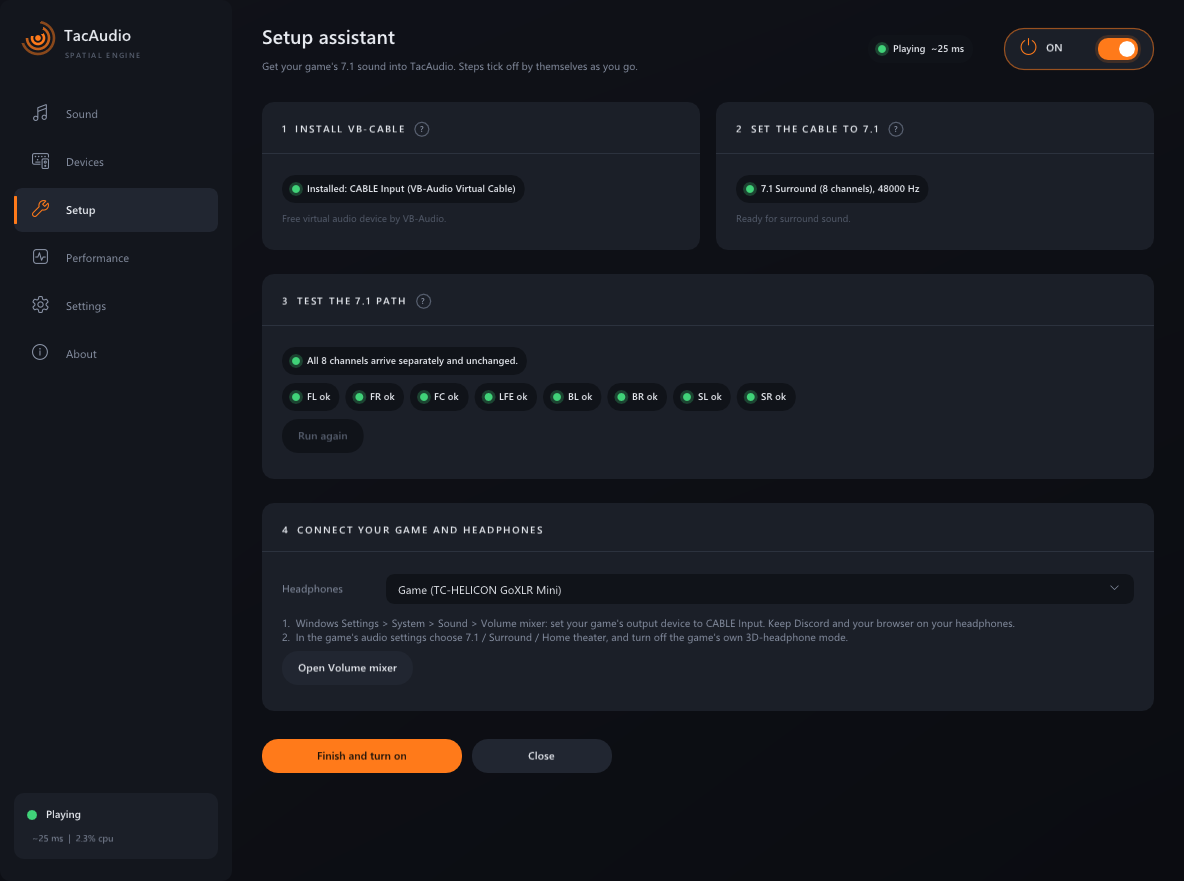
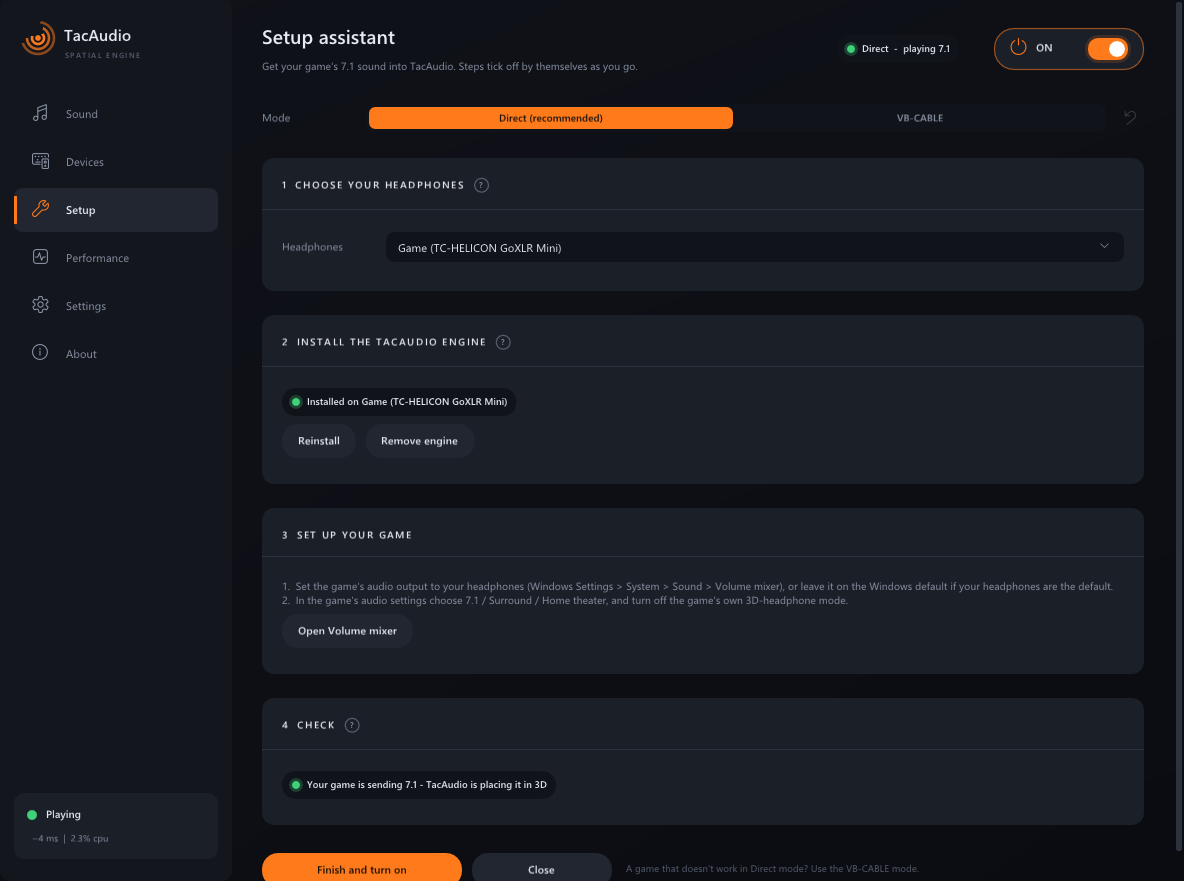
Release 0.6.0: Direct mode is the main setup, VB-CABLE optional
README, installer finish page, release notes and screenshots now
describe Direct mode (TacAudio's engine inside Windows audio, no
virtual cable, ~4 ms) as the standard setup; VB-CABLE mode stays as
an optional fallback in the Setup assistant.

diff --git a/README.md b/README.md
@@ -6,13 +6,13 @@
 
 <p align="center">
   <b>Spatial 3D audio for competitive gaming on Windows.</b><br>
-  Precise direction, clean footsteps, tamed gunfire &mdash; on any headphones.
+  Precise direction, clean footsteps, tamed gunfire &mdash; on any headphones, no virtual cable.
 </p>
 
 <p align="center">
   <img src="https://img.shields.io/badge/platform-Windows%2010%20%7C%2011-0b84d8" alt="Windows 10 | 11">
   <img src="https://img.shields.io/badge/C%2B%2B-20-00599c" alt="C++20">
-  <img src="https://img.shields.io/badge/version-0.5.0-ff7a1a" alt="version 0.5.0">
+  <img src="https://img.shields.io/badge/version-0.6.0-ff7a1a" alt="version 0.6.0">
   <img src="https://img.shields.io/badge/tests-336%20checks-2fe3c4" alt="336 test checks">
 </p>
 
@@ -36,66 +36,77 @@ commercial headphone virtualisers do &mdash; and then goes further for competiti
 - **No hidden bass boost**: the subwoofer channel is passed at the level the game mixed it, with an
   optional bass slider.
 
-Everything is adjustable live while you play, from a modern dark app with a tray icon and hotkeys.
+TacAudio's engine runs **inside Windows' own audio processing** on your headphones (*Direct mode*):
+the game simply plays to your headphones in 7.1, there is no virtual cable, and it adds about
+**4 ms** of delay. Everything is adjustable live while you play, from a modern dark app with a tray
+icon and hotkeys.
 
 ## Features
 
 | | |
 |---|---|
+| 🎯 **Direct mode** | Engine built into Windows audio on your headphones: no virtual cable, ~4 ms delay, keeps working with the app closed |
 | 🎧 **Measured heads** | SADIE II KEMAR and Neumann KU100 dummy heads included (+18 human heads optional), diffuse-field equalised so they sound neutral |
 | 🏠 **Room presets** | Neutral (dry, most precise), Balanced (small room), Spacious |
 | 🔫 **Combat dynamics** | Light / Medium / Strong, per channel and before 3D (a gun on one side never ducks footsteps behind you) |
 | 👣 **Footstep clarity** | Quiet-only 3.5 kHz clarity boost, 0 - 12 dB |
-| ⚡ **Low latency** | ~25 ms added in exclusive mode; glitch-free adaptive buffering with clock-drift compensation |
 | 🔁 **A/B switch** | 3D on/off instantly (Ctrl + Alt + F9) to compare against plain stereo |
-| 🧭 **Setup assistant** | Detects VB-CABLE and its 7.1 setting, opens the right Windows dialogs, tests all 8 channels, picks your headphones |
-| 🖥 **Everyday app** | Tray icon, start with Windows, global hotkeys, automatic reconnect when a device resets, per-option reset buttons |
-| 📊 **Performance page** | Live latency, buffer, CPU, glitch counters and history |
+| 🧭 **Setup assistant** | Installs the engine on your headphones and shows live whether your game is sending 7.1 |
+| 📊 **Performance page** | Live level of each of the game's 8 speakers, how much loud sound is tamed and quiet sound lifted |
+| 🖥 **Everyday app** | Tray icon, start with Windows, global hotkeys, per-option reset buttons |
+| 🔌 **VB-CABLE mode** | Optional fallback for setups where Direct mode can't be used |
 
 ## Download and install
 
-1. Download **`TacAudio-Setup-0.5.0.exe`** from the [Releases](https://github.com/sa3oodi/TacAudio-engine/releases) page.
-2. Run it. It installs for your user only (no administrator rights) into
-   `%LOCALAPPDATA%\Programs\TacAudio`, with a Start menu entry and an uninstaller in
-   *Settings &rarr; Apps*.
+1. Download **`TacAudio-Setup-0.6.0.exe`** from the [Releases](https://github.com/sa3oodi/TacAudio-engine/releases) page.
+2. Run it. It installs for your user only into `%LOCALAPPDATA%\Programs\TacAudio`, with a Start
+   menu entry and an uninstaller in *Settings &rarr; Apps*.
 
 > The installer is not code-signed yet, so Windows SmartScreen may warn you.
 > Click **More info &rarr; Run anyway**.
 
-### One-time game setup
+### One-time setup (about 1 minute)
 
-Games have to output 7.1 into a device TacAudio can read. Until TacAudio ships its own virtual
-audio driver, this is the free **VB-CABLE**.
+TacAudio's **Setup assistant** opens on first launch (and any time from the *Setup* page):
 
-**TacAudio's Setup assistant does the checking for you.** It opens on first launch (and any time
-from the *Setup* page): it detects whether VB-CABLE is installed and set to 7.1, opens the right
-Windows dialogs, runs an inaudible 8-channel test and picks your headphones. Each step ticks off by
-itself as you complete it.
+1. **Choose your headphones.**
+2. **Install engine** &mdash; Windows asks for administrator permission once; sound pauses for a few
+   seconds while Windows audio restarts.
+3. **Set up your game**: audio output = your headphones (or the Windows default), and in the game's
+   audio settings choose **7.1 / Surround / Home theater**. Turn off the game's own 3D-headphone mode.
+4. **Check**: start the game &mdash; the assistant shows *"Your game is sending 7.1"* when the back
+   and side channels arrive.
 
 <p align="center">
   <img src="docs/images/screenshot-setup.png" width="720" alt="Setup assistant">
 </p>
 
-The same steps by hand:
+Tested with Call of Duty: Modern Warfare 4 on a GoXLR Mini: full 7.1 arrives, no anti-cheat issues.
 
-1. Install [VB-CABLE](https://vb-audio.com/Cable/) (run `VBCABLE_Setup_x64.exe` as administrator, then restart).
-2. `Win + R` &rarr; `mmsys.cpl` &rarr; *Playback* &rarr; **CABLE Input** &rarr; *Configure* &rarr; **7.1 Surround**;
-   *Properties &rarr; Advanced* &rarr; a **48000 Hz** format.
-3. *Settings &rarr; System &rarr; Sound &rarr; Volume mixer* &rarr; your game &rarr; output **CABLE Input**.
-4. In the game: audio output **7.1 / Surround / Home theater**, and turn off the game's own 3D-headphone mode.
-5. In TacAudio's **Devices** page pick *CABLE Input* as source and your headphones as output, then
-   switch TacAudio **ON** (top right).
+**Good to know**
+- The engine processes everything played on that headphone device (Discord, browser...). Stereo
+  apps stay stereo and pass through the same sound settings.
+- Windows' *Audio enhancements* must be enabled for the device (the default).
+- Apps that use exclusive or "raw" audio mode bypass Windows' audio effects, and therefore TacAudio.
+- *Remove engine* in the Setup assistant (or uninstalling TacAudio) restores the device's original
+  Windows effects exactly.
 
-`tacaudio-cli cable-test` runs the same 8-channel test from the command line.
+### Optional: VB-CABLE mode
+
+If Direct mode can't be used, the Setup assistant's **VB-CABLE** tab walks you through the older
+path: the free [VB-CABLE](https://vb-audio.com/Cable/) virtual device set to 7.1, the game playing
+into *CABLE Input*, and TacAudio capturing it and playing to your headphones (~25 ms delay).
+It detects the cable and its 7.1 setting, opens the right Windows dialogs and runs an inaudible
+8-channel test (`tacaudio-cli cable-test` does the same from the command line).
 
 ## Using TacAudio
 
 | Page | What it's for |
 |---|---|
 | **Sound** | Head, room, combat dynamics + punch, footstep clarity, volume and bass, live meters. Every option has a &#x21BA; reset button; *Reset all* restores the defaults |
-| **Devices** | Game audio source, headphone output, exclusive mode (lowest latency) |
-| **Setup** | Setup assistant: VB-CABLE, 7.1, channel test, headphones, game routing |
-| **Performance** | Latency, buffer, CPU, glitches, how much loud sound is tamed / quiet sound lifted |
+| **Devices** | Where the engine is installed (Direct mode), or source / output devices (VB-CABLE mode) |
+| **Setup** | Setup assistant: Direct mode (recommended) or VB-CABLE |
+| **Performance** | The game's 8 speaker levels, streams, how much loud sound is tamed / quiet sound lifted |
 | **Settings** | Start with Windows, turn on at launch, close to tray, hotkeys |
 
 | Hotkey | Action |
@@ -103,11 +114,12 @@ The same steps by hand:
 | `Ctrl + Alt + F10` | TacAudio on / off |
 | `Ctrl + Alt + F9` | 3D sound on / off (A/B) |
 
-Closing the window keeps TacAudio running in the tray; right-click the tray icon to exit.
+Closing the window keeps TacAudio running in the tray; right-click the tray icon to exit. In Direct
+mode the engine keeps your last settings even when the app is closed.
 
 <p align="center">
-  <img src="docs/images/screenshot-devices.png" width="420" alt="Devices page">
   <img src="docs/images/screenshot-performance.png" width="420" alt="Performance page">
+  <img src="docs/images/screenshot-devices.png" width="420" alt="Devices page">
 </p>
 <p align="center">
   <img src="docs/images/screenshot-settings.png" width="420" alt="Settings page">
@@ -118,43 +130,54 @@ Closing the window keeps TacAudio running in the tray; right-click the tray icon
 
 ```mermaid
 flowchart LR
-    G[Game<br>7.1 output] --> C[VB-CABLE<br>CABLE Input]
-    C -->|WASAPI loopback| R[Lock-free ring<br>+ drift compensation]
-    subgraph TacAudio engine
-      R --> D[Combat dynamics<br>+ footstep clarity<br>per channel]
-      D --> H[HRTF convolution<br>7 virtual speakers]
+    G[Game<br>7.1 output] --> W[Windows audio engine<br>audiodg.exe]
+    subgraph W2 [TacAudio APO inside Windows audio]
+      D[Combat dynamics<br>+ footstep clarity<br>per channel] --> H[HRTF convolution<br>7 virtual speakers]
       D --> M[Room<br>early reflections + FDN]
       H --> S((+))
       M --> S
       S --> V[Volume, 3D A/B]
       V --> L[Peak limiter]
     end
-    L -->|WASAPI exclusive| O[Headphones]
+    W -->|7.1, 8 channels| D
+    L -->|stereo| O[Headphones]
+    A[TacAudio app] -.->|settings| W2
+    W2 -.->|levels, status| A
 ```
 
-1. **Capture**: the game's 8 channels are read from the virtual cable (WASAPI loopback) into a
-   lock-free ring buffer. A slowly adapting resampler absorbs the clock difference between the
-   cable and your headphones; the buffer grows a little after a glitch and shrinks back when stable.
-2. **Dynamics**: each channel is compressed above a threshold and lifted below another, using a
+**Direct mode.** Windows lets audio-effect add-ons (*Audio Processing Objects*, the same mechanism
+behind "Audio enhancements" and laptop virtual-surround features) process a playback device.
+TacAudio installs one on your headphones. It asks Windows for a **7.1 input while the device stays
+stereo**, so a game set to 7.1 delivers all 8 channels to TacAudio, which renders them to 3D stereo
+right before the headphones. The app writes the settings to `%ProgramData%\TacAudio\apo.ini` (applied
+within 0.1 s) and reads the engine's live status back.
+
+The engine:
+
+1. **Dynamics**: each channel is compressed above a threshold and lifted below another, using a
    blend of peak and ~30 ms loudness detection (punch). Footstep clarity adds a 3.5 kHz band only
    while the channel is quiet.
-3. **Spatialisation**: every channel is a virtual speaker at its 7.1 position, convolved with the
+2. **Spatialisation**: every channel is a virtual speaker at its 7.1 position, convolved with the
    chosen head's HRTF pair (uniformly partitioned FFT convolution). The direction-averaged response
    of each head is equalised flat, so the head's own ear resonance does not colour the sound.
-4. **Room**: a stereo send feeds early reflections and a 4-line feedback delay network with a
+3. **Room**: a stereo send feeds early reflections and a 4-line feedback delay network with a
    Hadamard matrix; bass and top end are kept out of it so footsteps stay clean.
-5. **Output**: volume, a look-ahead peak limiter and exclusive-mode output at the device's minimum
-   period (3 ms on a GoXLR).
+4. **Output**: volume, 3D on/off and a look-ahead peak limiter.
 
 Live changes (head, room, dynamics...) swap the whole renderer without clicks: the new one runs
-silently for ~20 ms to fill its filters, then crossfades in over ~10 ms.
+silently for ~20 ms to fill its filters, then crossfades in over ~10 ms. The audio thread never
+allocates, locks or waits; renderers are built on a worker thread.
+
+**VB-CABLE mode** uses the same engine in the app: WASAPI loopback capture of the cable into a
+lock-free ring buffer with drift compensation and an adaptive buffer, then exclusive-mode output.
 
 ### Measured
 
 | | Result |
 |---|---|
-| Added latency, exclusive output | **~25 - 31 ms** (about 20 ms of it is the VB-CABLE step) |
-| Added latency, shared output | ~55 ms |
+| Added delay, Direct mode | **~4 ms** (one 2.7 ms processing block + 1 ms limiter look-ahead) |
+| Added latency, VB-CABLE mode | ~25 - 31 ms exclusive output, ~55 ms shared |
+| 7.1 through Direct mode | 8 channels arrive discrete (test levels -30 ... -51 dBFS intact) |
 | CPU | ~2 % of one core |
 | Gunfire vs. footsteps (battle test scene) | 31 dB &rarr; 21 dB (medium) &rarr; 16 dB (strong) |
 | Gunshot crack kept with punch 60 | 32 dB vs. 34 dB without dynamics (24 dB at punch 0) |
@@ -162,13 +185,15 @@ silently for ~20 ms to fill its filters, then crossfades in over ~10 ms.
 
 ## Build from source
 
-Requirements: Windows 10/11, Visual Studio 2022 or 2026 with the C++ workload, CMake 3.25+,
-Python 3 (only to download head data). The configure step downloads zlib, libmysofa and Dear ImGui.
+Requirements: Windows 10/11, Visual Studio 2022 or 2026 with the C++ workload and Windows SDK,
+CMake 3.25+, Python 3 (only to download head data). The configure step downloads zlib, libmysofa
+and Dear ImGui.
 
 ```powershell
-cmake -S . -B build -G "Visual Studio 17 2022" -A x64     # or "Visual Studio 18 2026"
+cmake -S . -B build -A x64
 cmake --build build --config Release
 build\Release\tac_tests.exe                               # unit tests
+build\Release\tacapo-setup.exe selftest                   # drives the APO in-process
 python tools\fetch_sadie.py                               # SADIE II KU100 + KEMAR (--all: + 18 human heads)
 build\Release\TacAudio.exe
 ```
@@ -181,32 +206,33 @@ powershell -ExecutionPolicy Bypass -File scripts\build_installer.ps1
 ```
 
 The GitHub Actions workflow (`.github/workflows/build.yml`) builds, tests and packages the
-installer on every push.
+installer on every push, and publishes a GitHub Release for every `v*` tag.
 
 ### Command-line tools
 
 ```powershell
+tacapo-setup status                       # where the engine is installed, live levels, log
+tacapo-setup install --device "Headphones"   # (administrator) install the engine on a device
+tacapo-setup uninstall                    # (administrator) remove it, restore the original effects
+tacapo-setup play71 --device "Headphones"    # quiet 8-channel test tone (levels show in status)
 tacrender demo renders                    # synthetic 7.1 test scenes -> binaural WAVs
 tacrender render in_71.wav out.wav        # any 5.1 / 7.1 / 7.1.4 WAV -> binaural
 tacrender heads                           # list head sets;  tacrender audition <dir>: one render per head
 tacaudio-cli devices                      # audio devices with periods
-tacaudio-cli run --loopback "CABLE Input" --out "Game" --exclusive
-tacaudio-cli run ... --latency-test --gain-db -40   # measure added latency stage by stage
+tacaudio-cli run --loopback "CABLE Input" --out "Game" --exclusive    # VB-CABLE mode engine
 tacaudio-cli cable-test                   # verify a virtual cable carries 7.1
 ```
-
-Shared options: `--head`, `--room`, `--dynamics`, `--punch`, `--footsteps`, `--lfe-db`,
-`--gain-db`, `--raw-hrtf`, `--spherical`, `--block`.
 
 ## Project layout
 
 ```
 src/core/          DSP, no dependencies: FFT, partitioned convolver, HRTF sets + diffuse-field EQ,
                    VBAP, binaural renderer, room, dynamics, limiter, ring buffer, varispeed, WAV
-src/engine/        real-time engine (drift compensation, adaptive buffer, live renderer swap)
+src/engine/        real-time engine for VB-CABLE mode (drift compensation, adaptive buffer)
 src/platform/      WASAPI capture / loopback / render (shared, low-latency, exclusive)
 src/sofa/          SOFA HRTF import (libmysofa)
-apps/common/       shared CLI helpers, AudioSession (capture -> engine -> render)
+apps/apo/          TacAudioApo.dll (the Direct-mode engine inside Windows audio) + tacapo-setup.exe
+apps/common/       CLI helpers, AudioSession, cable check, apo_control (app <-> engine)
 apps/tacaudio_gui/ TacAudio.exe: Win32 + Direct3D 11 + Dear ImGui app (ui_widgets = UI kit)
 apps/tacaudio/     tacaudio-cli.exe        apps/tacrender/  tacrender.exe
 tests/             unit tests (each DSP block against a reference; engine vs. offline; drift, jitter)
@@ -216,7 +242,6 @@ installer/         Inno Setup script        scripts/  build_installer.ps1
 
 ## Roadmap
 
-- TacAudio virtual 7.1 driver (replaces VB-CABLE, removes ~20 ms latency; needs Microsoft signing for anti-cheat)
 - Game profiles (per-game settings, auto-switch when a game starts)
 - Headphone correction EQ per model
 - Upmix for stereo-only games
